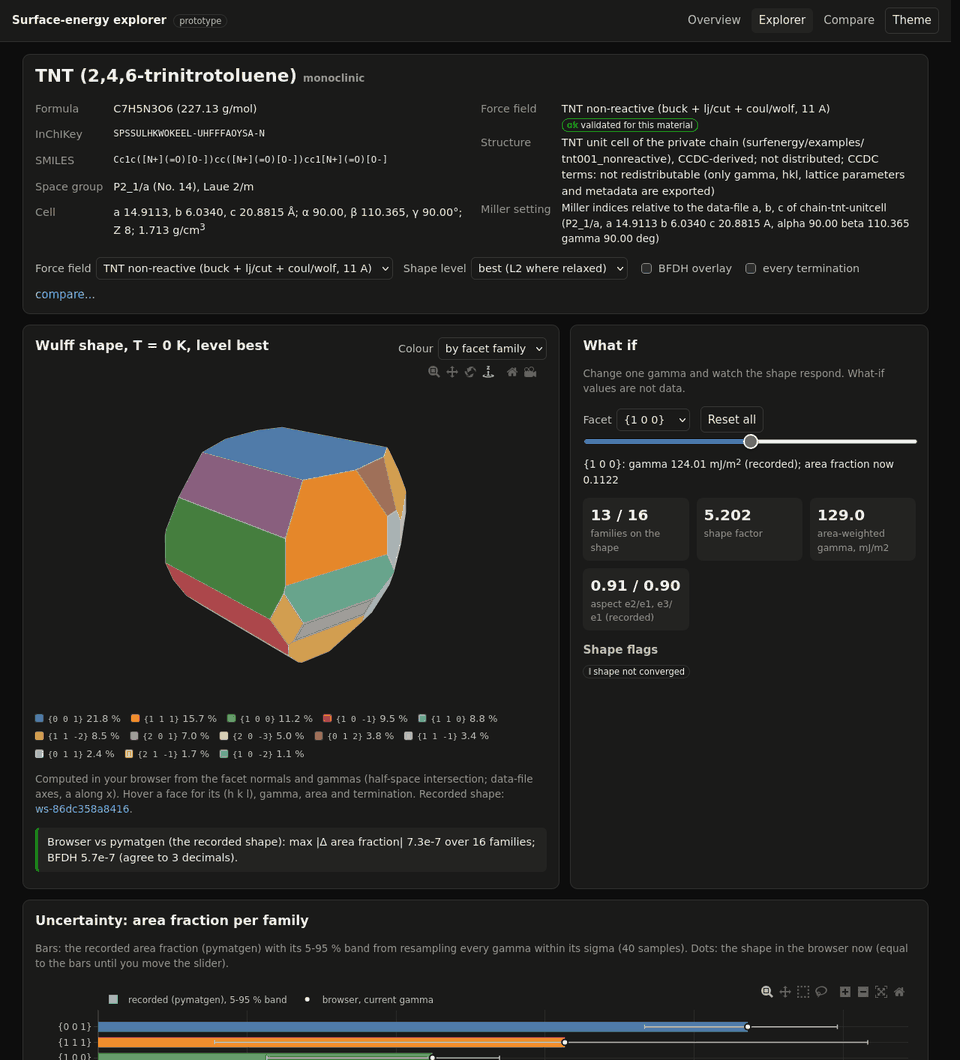
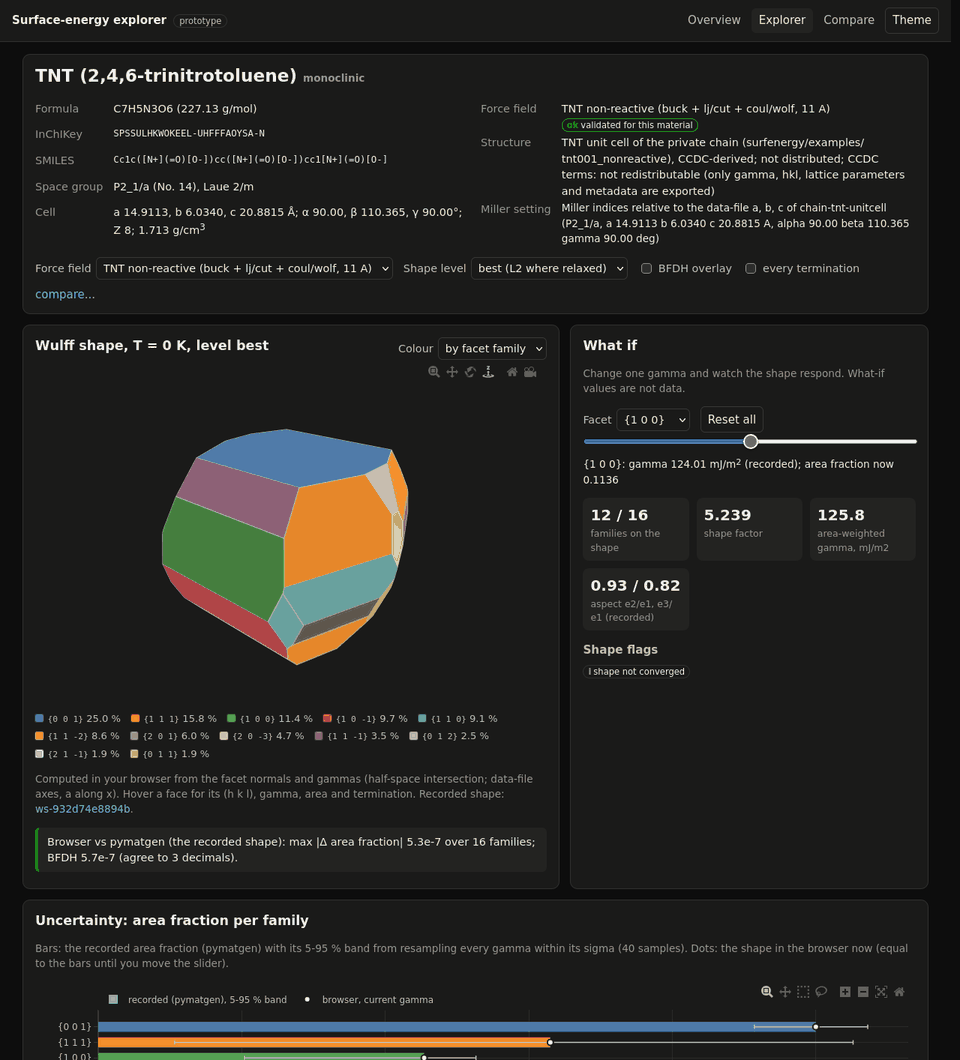
dataset: surfenergy's T = 0 relaxed values feed the shapes too (TNT {0 0 1} 104.02 at level 2 instead of the ratio-scaled level-1 value; its area 0.218 -> 0.250)

diff --git a/tools/export_dataset.py b/tools/export_dataset.py
@@ -804,9 +804,13 @@ def main():
                     new[0]['record_id'], new[0]['result']['gamma'], new[0]['provenance']['source_ref'].split('#')[0])
     se += camp_recs
     rec_by_id = {r['record_id']: r for r in se}
+    # shape inputs beyond the ledgers: the campaign runs and surfenergy's own pinned/run T = 0 relaxed values (e.g.
+    # TNT {0 0 1} 104.0232, R3), which would otherwise leave that family at its ratio-scaled level-1 value
+    surf_l2 = [r for r in se if r['provenance']['source'] in ('surfenergy-regression', 'surfenergy-run')
+               and r['result']['status'] == 'ok' and r['protocol']['level'] == 2 and r['protocol']['temperature_K'] == 0]
     for mat in ('tnt', 'paracetamol'):
         er, led = entry_recs[mat]
-        shapes += build_shapes(mat, er, led, campaign_recs=camp_recs, rec_by_id=rec_by_id)
+        shapes += build_shapes(mat, er, led, campaign_recs=camp_recs + surf_l2, rec_by_id=rec_by_id)
     # materials without a bundle: a level-1 shape from their records once they have enough families
     from shapes import level1_shape
     have_shape = {s['material_id'] for s in shapes}
